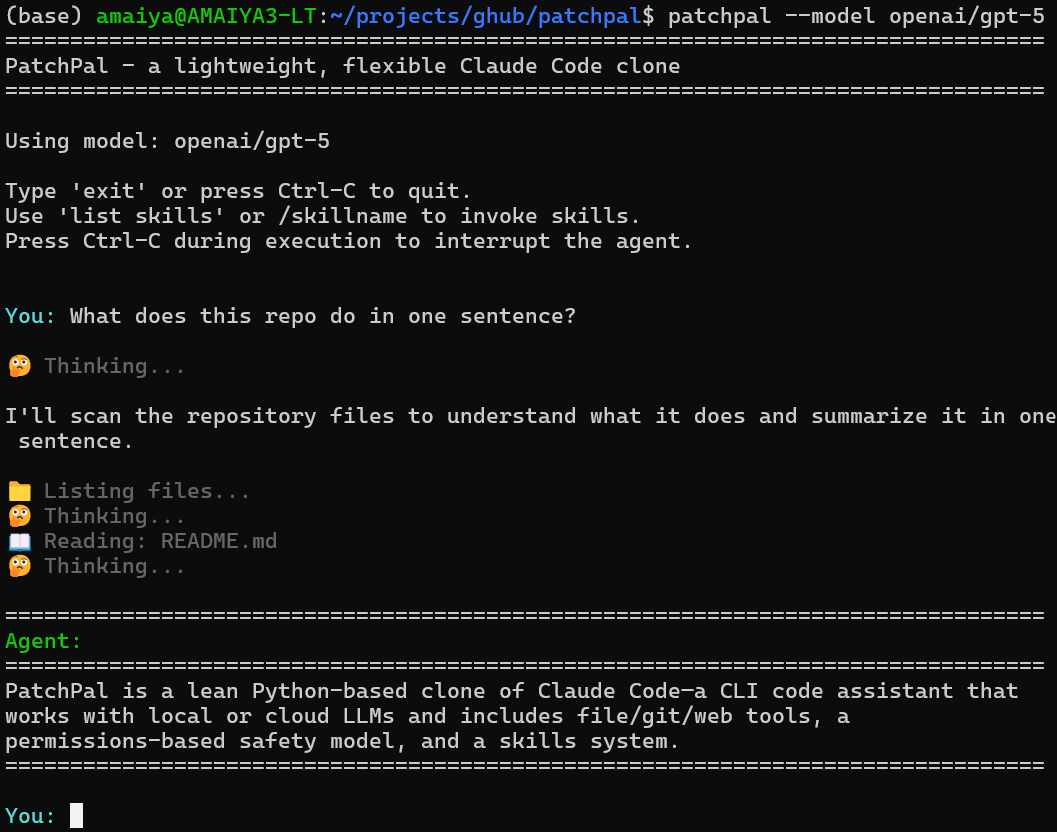
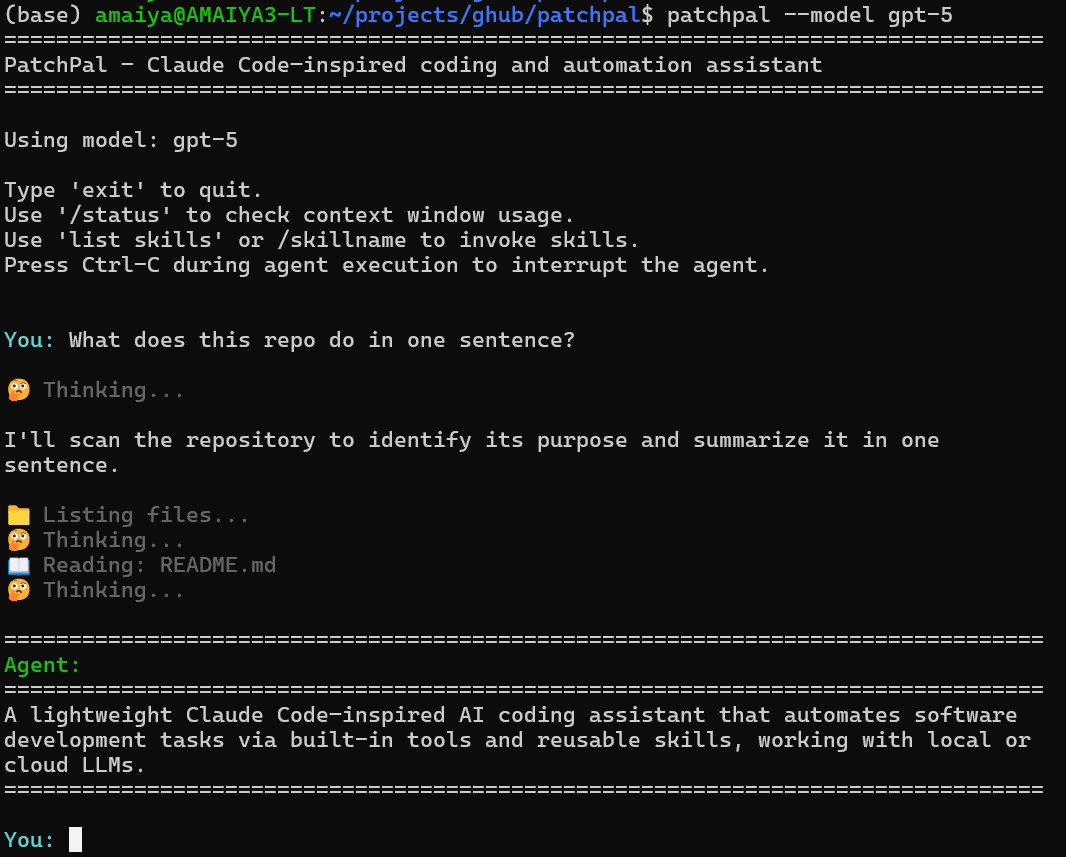
doc update

diff --git a/patchpal/cli.py b/patchpal/cli.py
@@ -190,7 +190,7 @@ Supported models: Any LiteLLM-supported model
     history = InMemoryHistory()
 
     print("=" * 80)
-    print("PatchPal - a lightweight, flexible Claude Code clone")
+    print("PatchPal - Claude Code–inspired coding and automation assistant")
     print("=" * 80)
     print(f"\nUsing model: {model_id}")
 

diff --git a/README.md b/README.md
@@ -3,7 +3,7 @@
 <!--![PatchPal Screenshot](patchpal_screenshot.png)-->
 <img src="patchpal_screenshot.png" alt="PatchPal Screenshot" width="650"/>
 
-> A lightweight clone of Claude Code in Python -- supports both local and cloud LLMs.
+> A lightweight Claude Code–inspired coding and automation assistant -- supports both local and cloud LLMs.
 
 PatchPal is an AI coding assistant that helps you build software, debug issues, and automate tasks. It goes beyond code editing—using built-in tools and generating executable Python code to solve problems ranging from data analysis and visualization to web scraping and API interactions.
 
